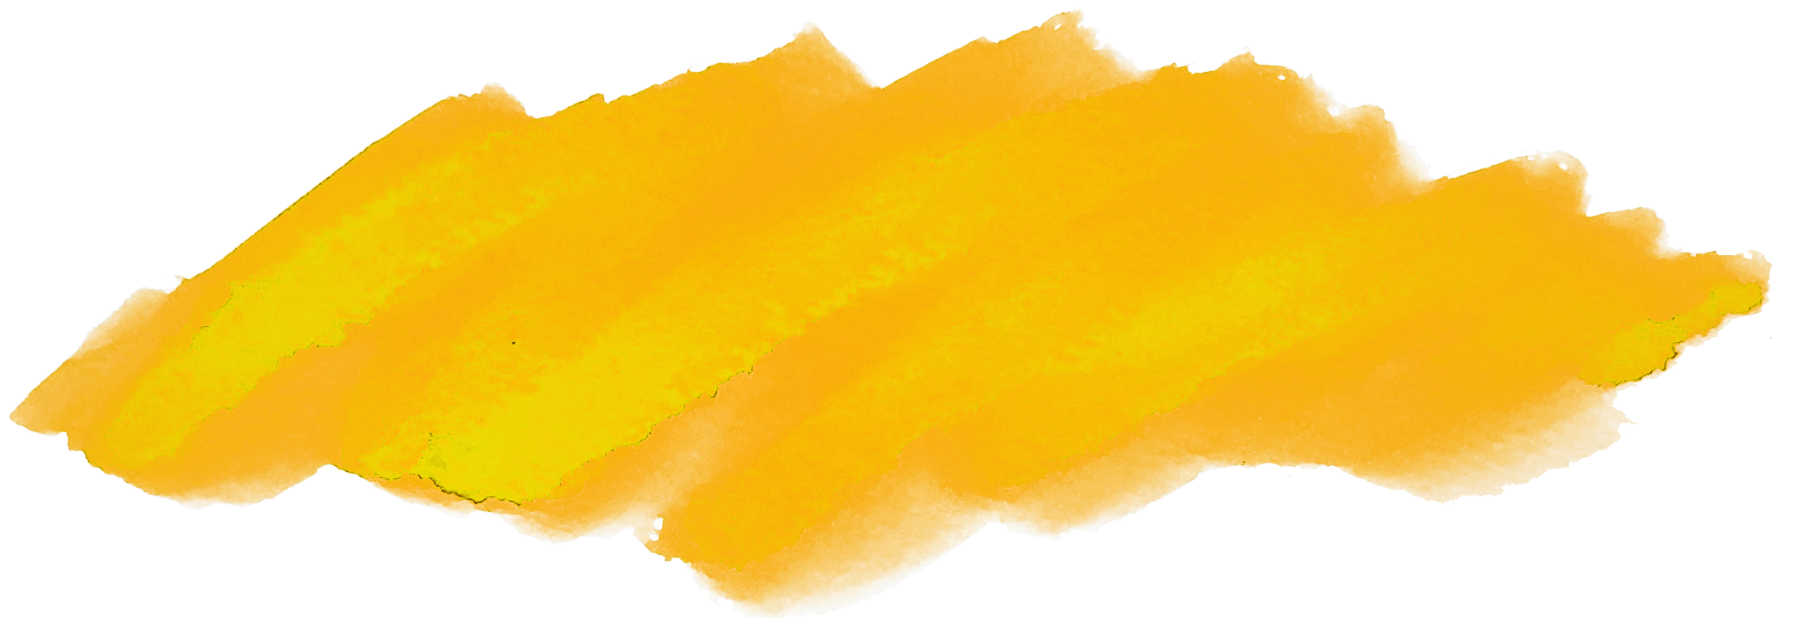
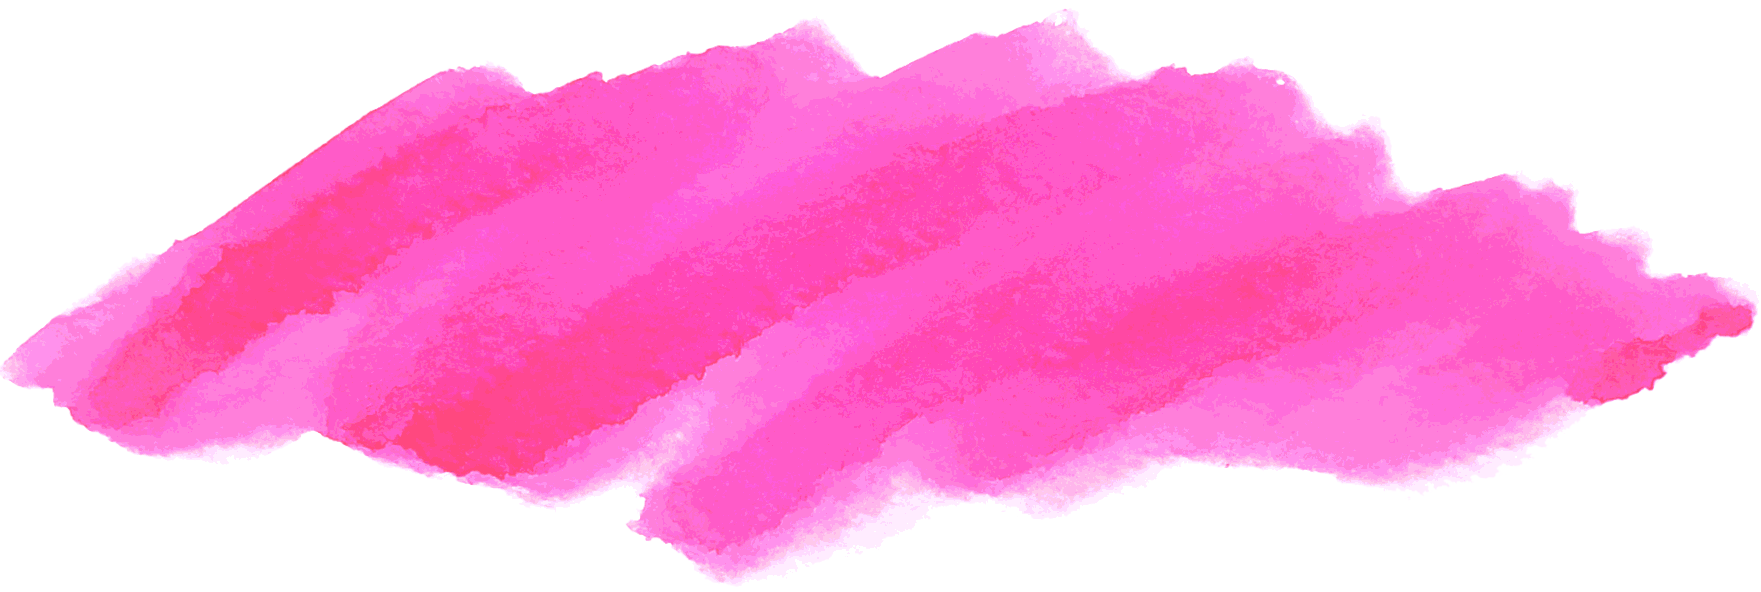
Fix: テーマカラーをピンクに戻す

diff --git a/frontend/src/components/laundries/listItem.jsx b/frontend/src/components/laundries/listItem.jsx
@@ -4,8 +4,9 @@ import Loading from '../common/loading.jsx'
 import Modal from "react-modal"
 import Button from "../common/button";
 import {Link} from "react-router-dom";
-import {deleteLaundry, getLaundry} from "../../lib/api/laundries";
+import {deleteLaundry, getLaundry, washed} from "../../lib/api/laundries";
 import {useHistory} from "react-router";
+import {createLaundryHistories} from "../../lib/api/laundry_histories";
 
 const customStyles = {
     content: {
@@ -63,6 +64,27 @@ const ListItem = ({id, name, image}) => {
         }
     }
 
+    // 洗濯するボタン
+    const handleWash = async (e, laundryId) => {
+        e.preventDefault()
+
+        // 洗濯履歴を作る
+        try {
+            const res = await createLaundryHistories(laundryId)
+            console.log(res)
+        } catch (err) {
+            console.error(err)
+        }
+
+        // 洗濯物のwashAtを更新、今日は非表示にする
+        try {
+            const res = await washed(laundryId)
+            console.log(res)
+        } catch (err) {
+            console.error(err)
+        }
+    }
+
     let buttons
     if (isShownDeleteMode) {
         buttons = () => {
@@ -71,7 +93,7 @@ const ListItem = ({id, name, image}) => {
                     <p className="text-center text-red-500">本当に削除しますか？</p>
 
                     <div className="mt-8 w-2/3 mx-auto flex justify-between space-x-2">
-                        <Button color="yellow" func={(e) => {
+                        <Button color="pink" func={(e) => {
                             deleteLaundryInfo(e, laundry.id)
                         }} value="はい"/>
                         <Button color="gray" func={() => {
@@ -85,12 +107,16 @@ const ListItem = ({id, name, image}) => {
         buttons = () => {
             return (
                 <div className="mt-8 w-2/3 mx-auto flex justify-between space-x-1">
+                    <Button color="pink" func={(e) => {
+                        handleWash(e,id)
+                    }} value="今日洗濯する"/>
                     <Link to={`/laundries/${laundry.id}`}
-                          className="bg-yellow-200 hover:bg-yellow-100 py-2 px-3 rounded-xl border-b-4 border-yellow-500">
+                          className="bg-pink-100 hover:bg-pink-100 py-2 px-3 rounded-xl border-b-4 border-pink-500">
                         変更する</Link>
                     <Button color="gray" func={() => {
                         setIsShownDeleteMode(true)
                     }} value="削除する"/>
+                    <p>今日洗濯する</p>
                 </div>
             )
         }
@@ -113,7 +139,7 @@ const ListItem = ({id, name, image}) => {
                 <Loading isLoading={isLoading} width={'100%'} height={'100%'}>
                     <button onClick={closeModal} className="bg-gray-200">X</button>
 
-                    <h2 className="text-center p-1 bg-yellow-100">{laundry.name}</h2>
+                    <h2 className="text-center p-1 bg-pink-100">{laundry.name}</h2>
 
                     <div className="grid grid-cols-5 my-8 text-sm">
                         <div className="col-span-2 flex items-center justify-center">

diff --git a/frontend/src/components/laundries/weeklyItem.jsx b/frontend/src/components/laundries/weeklyItem.jsx
@@ -72,7 +72,7 @@ const WeeklyItem = ({id, name, image, weekly}) => {
                     <p className="text-center text-red-500">本当に削除しますか？</p>
 
                     <div className="mt-8 w-2/3 mx-auto flex justify-between space-x-2">
-                        <Button color="yellow" func={(e) => {
+                        <Button color="pink" func={(e) => {
                             deleteLaundryInfo(e, laundry.id)
                         }} value="はい"/>
                         <Button color="gray" func={() => {
@@ -87,7 +87,7 @@ const WeeklyItem = ({id, name, image, weekly}) => {
             return (
                 <div className="mt-8 w-2/3 mx-auto flex justify-between space-x-1">
                     <Link to={`/laundries/${laundry.id}`}
-                          className="bg-yellow-200 hover:bg-yellow-100 py-2 px-3 rounded-xl border-b-4 border-yellow-500">
+                          className="bg-pink-100 hover:bg-pink-100 py-2 px-3 rounded-xl border-b-4 border-pink-500">
                         変更する</Link>
                     <Button color="gray" func={() => {
                         setIsShownDeleteMode(true)
@@ -111,11 +111,11 @@ const WeeklyItem = ({id, name, image, weekly}) => {
 
                 {weekly?.map((day, index) => {
                     if (day === 2) {
-                        return (<td key={index} className="border-2 border-dotted border-gray-100 bg-yellow-200 w-1/12">
+                        return (<td key={index} className="border-2 border-dotted border-gray-100 bg-pink-100 w-1/12">
                             <img src={washingMachine} alt="洗濯する日" className="w-3/5 m-auto opacity-60"/>
                         </td>)
                     } else if (day === 1) {
-                        return (<td key={index} className="border-2 border-dotted border-gray-100 bg-yellow-100"></td>)
+                        return (<td key={index} className="border-2 border-dotted border-gray-100 bg-pink-100"></td>)
                     } else {
                         return (<td key={index} className="border-2 border-dotted border-gray-100"></td>)
                     }
@@ -129,7 +129,7 @@ const WeeklyItem = ({id, name, image, weekly}) => {
                 <Loading isLoading={isLoading} width={'100%'} height={'100%'}>
                     <button onClick={closeModal} className="bg-gray-200">X</button>
 
-                    <h2 className="text-center p-1 bg-yellow-100">{laundry.name}</h2>
+                    <h2 className="text-center p-1 bg-pink-100">{laundry.name}</h2>
 
                     <div className="grid grid-cols-5 my-8 text-sm">
                         <div className="col-span-2 flex items-center justify-center">

diff --git a/frontend/src/components/common/header.jsx b/frontend/src/components/common/header.jsx
@@ -32,7 +32,7 @@ const Header = ({date}) => {
         const {pathname} = location
         if (pathname === "/") {
             setBackgroundColor({
-                index: "bg-yellow-300",
+                index: "bg-pink-300",
                 laundries: "bg-white",
                 menu: "bg-white"
             })
@@ -44,7 +44,7 @@ const Header = ({date}) => {
         } else if (pathname === "/laundries/weekly") {
             setBackgroundColor({
                 index: "bg-white",
-                laundries: "bg-yellow-300",
+                laundries: "bg-pink-300",
                 menu: "bg-white"
             })
             setIcon({
@@ -56,7 +56,7 @@ const Header = ({date}) => {
             setBackgroundColor({
                 index: "bg-white",
                 laundries: "bg-white",
-                menu: "bg-yellow-300"
+                menu: "bg-pink-300"
             })
             setIcon({
                 index: sunRed,
@@ -67,7 +67,7 @@ const Header = ({date}) => {
             setBackgroundColor({
                 index: "bg-white",
                 laundries: "bg-white",
-                menu: "bg-yellow-300"
+                menu: "bg-pink-300"
             })
             setIcon({
                 index: sunRed,
@@ -91,14 +91,14 @@ const Header = ({date}) => {
                 <div className="h-16 grid grid-cols-3">
                     <div className="transition duration-150 ease-in-outduration-300 cols-span-1 border border-dotted">
                         <Link
-                            className={`h-16 flex justify-items-center items-center hover:bg-yellow-300 ${backgroundColor.index}`}
+                            className={`h-16 flex justify-items-center items-center hover:bg-pink-200 ${backgroundColor.index}`}
                             to={"/"}>
                             <img src={icon.index} alt="ダッシュボード" className="h-3/5 w-auto mx-auto"/>
                         </Link>
                     </div>
                     <div className="border border-dotted cols-span-1">
                         <Link
-                            className={`h-16 flex justify-items-center items-center hover:bg-yellow-200 ${backgroundColor.laundries}`}
+                            className={`h-16 flex justify-items-center items-center hover:bg-pink-100 ${backgroundColor.laundries}`}
                             to="/laundries/weekly">
                             <img src={icon.laundries} alt="weekly" className="h-1/2 w-auto mx-auto"/>
                         </Link>

diff --git a/frontend/src/pages/settings/teamsInfo.jsx b/frontend/src/pages/settings/teamsInfo.jsx
@@ -167,7 +167,7 @@ const TeamsInfo = () => {
                         </div>
 
                         <div className="mt-8 space-x-4">
-                            <Button color="yellow" func={handleUpdateTeam} value="変更する" option="w-2/5"/>
+                            <Button color="pink" func={handleUpdateTeam} value="変更する" option="w-2/5"/>
                             <Button color="gray" func={() => {
                                 setIsDisplayedForm(false)
                             }} value="戻る" option="w-2/5"/>
@@ -189,7 +189,7 @@ const TeamsInfo = () => {
                             <p className="bg-gray-100 p-2">{getLocationName(currentTeam.locationId)}</p>
                         </div>
 
-                        <Button color="yellow" func={() => {
+                        <Button color="pink" func={() => {
                             setIsDisplayedForm(true)
                         }} value="変更する" option="w-2/5 mt-8"/>
                     </div>

diff --git a/frontend/src/pages/settings/usersInfo.jsx b/frontend/src/pages/settings/usersInfo.jsx
@@ -121,7 +121,7 @@ const UsersInfo = () => {
                         </div>
 
                         <div className="mt-8 space-x-4">
-                            <Button color="yellow" func={handleSubmit} value="変更する" option="w-2/5"/>
+                            <Button color="pink" func={handleSubmit} value="変更する" option="w-2/5"/>
                             <Button color="gray" func={() => {
                                 setIsDisplayedForm(false)
                             }} value="戻る" option="w-2/5"/>
@@ -150,7 +150,7 @@ const UsersInfo = () => {
                         </div>
 
                         <div className="mt-8 space-x-4">
-                            <Button color="yellow" func={() => {
+                            <Button color="pink" func={() => {
                                 setIsDisplayedForm(true)
                             }} value="変更する" option="w-2/5"/>
                             <Button color="gray" func={() => {

diff --git a/frontend/src/pages/signIn.jsx b/frontend/src/pages/signIn.jsx
@@ -46,7 +46,7 @@ const SignIn = () => {
 
     return (
         <>
-            <div className="h-screen flex flex-col justify-center bg-yellow-100">
+            <div className="h-screen flex flex-col justify-center bg-pink-200">
                 <img src={mofit} alt="mofitのロゴ" className="w-52 h-auto mx-auto"/>
 
                 <form className="flex flex-col w-2/3 mx-auto max-w-lg h-1/3 justify-around mt-4">
@@ -66,7 +66,7 @@ const SignIn = () => {
                                onChange={event => setPassword(event.target.value)}/>
                     </div>
 
-                    <Button color="yellow" func={handleSubmit} value="ログイン" option="w-1/2"/>
+                    <Button color="pink" func={handleSubmit} value="ログイン" option="w-1/2"/>
                 </form>
 
                 <ul className="text-xs mt-8 text-gray-600">

diff --git a/frontend/src/components/users/todaysListItem.jsx b/frontend/src/components/users/todaysListItem.jsx
@@ -71,7 +71,7 @@ const TodaysListItem = ({index, id, name, image, isDisplayed, limitDays, update}
                 <p className="col-span-3 my-auto leading-none text-sm">{name}</p>
                 <p className="col-span-1 my-auto leading-tight text-sm">{howManyDays(limitDays)}</p>
                 <div className="col-span-4 flex w-11/12 mx-auto">
-                    <button className="h-10 w-1/2 rounded-l-xl bg-yellow-200 text-sm my-auto hover:shadow-sm hover:translate-y-0.5 transform transition"
+                    <button className="h-10 w-1/2 rounded-l-xl bg-pink-100 text-sm my-auto hover:shadow-sm hover:translate-y-0.5 transform transition"
                             onClick={(e) => {
                                 handleWash(e, id)
                             }}>洗濯する

diff --git a/frontend/src/pages/signUp.jsx b/frontend/src/pages/signUp.jsx
@@ -71,7 +71,7 @@ const SignUp = () => {
 
     return (
         <>
-            <h1 className="text-xl bg-yellow-100 p-3">アカウント登録</h1>
+            <h1 className="text-xl bg-pink-100 p-3">アカウント登録</h1>
 
             <form className="flex flex-col w-2/3 mx-auto max-w-lg text-sm">
                 <div className="mt-6 flex flex-col">
@@ -181,7 +181,7 @@ const SignUp = () => {
                     </select>
                 </div>
 
-                <Button color="yellow" func={handleCreateUser} value="登録" option="mt-8 py-2 px-5"/>
+                <Button color="pink" func={handleCreateUser} value="登録" option="mt-8 py-2 px-5"/>
             </form>
         </>
     )

diff --git a/frontend/src/components/users/weather.jsx b/frontend/src/components/users/weather.jsx
@@ -63,7 +63,7 @@ const Weather = ({date, todaysWeather, tomorrowsWeather}) => {
 
                     <img src={weather().imageUrl ?? ''} alt={weather().telop ?? ''} className="w-56 rounded-full"/>
 
-                    <div className="flex text-yellow-400 text-xl">
+                    <div className="flex text-pink-400 text-xl">
                         <p className="mx-3 bg-gradient-to-tr from-white to-transparent rounded-xl p-3 font-bold">
                             <span className="text-xs align-top">AM</span>
                             {weather().chanceOfRainAM ?? ''}

diff --git a/frontend/src/components/common/menuButton.jsx b/frontend/src/components/common/menuButton.jsx
@@ -3,7 +3,7 @@ import {Link} from "react-router-dom";
 
 const MenuButton = ({handleMouseDown,icon,backgroundColor}) => {
     return (
-        <Link className={`h-16 flex justify-items-center items-center hover:bg-yellow-200 ${backgroundColor}`} to="/laundries" onMouseDown={handleMouseDown}>
+        <Link className={`h-16 flex justify-items-center items-center hover:bg-pink-100 ${backgroundColor}`} to="/laundries" onMouseDown={handleMouseDown}>
             <img src={icon} alt="メニュー" className="h-2/5 w-auto mx-auto"/>
         </Link>
     );

diff --git a/frontend/src/pages/laundries/index.jsx b/frontend/src/pages/laundries/index.jsx
@@ -46,7 +46,7 @@ const LaundriesIndex = () => {
                     }
                 </ul>
                 <Link to="/laundries/add"
-                      className="block bg-yellow-300 py-2 w-3/5 text-white mx-auto mb-10 border-b-4 border-yellow-500 rounded-xl font-black">
+                      className="block bg-pink-300 py-2 w-3/5 text-white mx-auto mb-10 border-b-4 border-pink-500 rounded-xl font-black">
                     追加
                     <span className="text-2xl ml-2">+</span>
                 </Link>

diff --git a/frontend/src/components/users/todaysList.jsx b/frontend/src/components/users/todaysList.jsx
@@ -9,7 +9,7 @@ const TodaysList = ({laundries, update}) => {
         contents = laundries.map((laundry, index) => {
             return (
                 <>
-                    <h2 className="bg-yellow-100 py-3 text-yellow-600">今日の洗濯物</h2>
+                    <h2 className="bg-pink-100 py-3 text-pink-600">今日の洗濯物</h2>
                     <TodaysListItem
                         key={index}
                         index={index}
